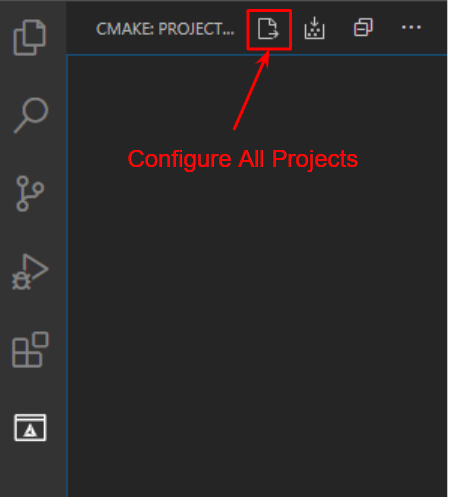
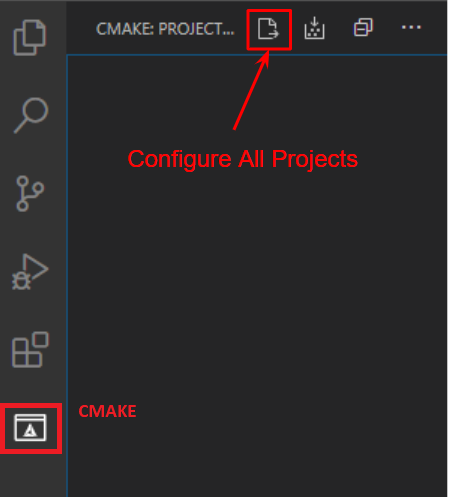
README -- Further added VSCode Setup documentation steps and figures

Changed region(s): [[0.0, 0.7847, 0.3111, 0.9356]]

diff --git a/README.md b/README.md
@@ -14,12 +14,15 @@ Collection of monoDrive client software for different languages.
 - [VSCode](https://code.visualstudio.com/)
 
 ### Windows Library Dependencies
-**NOTE**: Extract or install these libraries to **C:/local** for cmake can find them.
+**NOTE**: Extract or install these libraries to `C:\local` so cmake can find them.
 
 - [Boost](https://sourceforge.net/projects/boost/files/boost-binaries/1.73.0/boost_1_73_0-msvc-14.2-64.exe/download)
   - Add `C:\local\boost_1_73_0\lib64-msvc-14.2` to your PATH variable
   - Create the `BOOST_ROOT` environment variable and set it to `C:\local\boost_1_73_0\`
+
     <img src="doc/cpp-client/setup/images/boost_root_system_var.jpg" width="500">
+
+
 - [CMake](https://cmake.org/download/)
   - When installing, make sure to choose the option to CMake to your Windows Path variable.
 
@@ -40,12 +43,18 @@ To build the examples the following are required:
     ```bash
     sudo apt-get update && sudo apt-get install libboost-dev libboost-system-dev build-essential libeigen3-dev
     ```
-## VSCode Setup and Build Instructions
+
+## Setup Using VSCode
+
+### Build
 1. Open VSCode.
+
 2. Add the following VSCode extensions:
-    - CMake
-    - CMake Tools
-    - C/C++
+    - [CMake](https://marketplace.visualstudio.com/items?itemName=twxs.cmake)
+    - [CMake Tools](https://marketplace.visualstudio.com/items?itemName=ms-vscode.cmake-tools)
+    - [C/C++](https://marketplace.visualstudio.com/items?itemName=ms-vscode.cpptools)
+
+
 3. Select `File -> Open Folder` and navigate to this folder to build the cpp-examples or simulator-cpp-client to build just the client library.
 4. Use the CMake extension to configure and build
     1. Click the Configure All Projects icon:
@@ -54,14 +63,30 @@ To build the examples the following are required:
 
     2. If prompted to Scan for Kits select Yes.
 
-        *Windows* Choose: `Visual Studio Community 2019 Release - amd64`.
+        **Windows**: Use `Visual Studio Community 2019 Release - amd64`.
 
-        *Linux* Choose: `Choose the compiler of your choice, tested with g++ 7.5.0`.
+        **Linux**: Use the compiler of your choice. Tested with `g++ 7.5.0`.
 
     3. Build the client by clicking the `Build All Projects` icon:
 
         <img src="doc/cpp-client/setup/images/build.png" width="250">
 
+### Set Launch Target
+
+<p><img src="doc/cpp-client/setup/images/dev_target_set_example_v3.jpg" width="500">
+
+
+**NOTE**: Launching automatically fires off a build check in cmake so just setting the launch target will suffice.
+
+
+### Run Example
+#### Windows
+
+<img src="doc/cpp-client/setup/images/example_windows_vscode.jpg" width="1300">
+
+*Example configuration with `fisheye_camera_equidistant` as a build + launch target.*
+
+After you've set your build configuration and target, you can run by hitting `F5` to run in debug or `Ctrl+F5` to run without debugging.
 
 ## Installation with CMake
 You can include the monoDrive Simulator client in your existing CMake project
